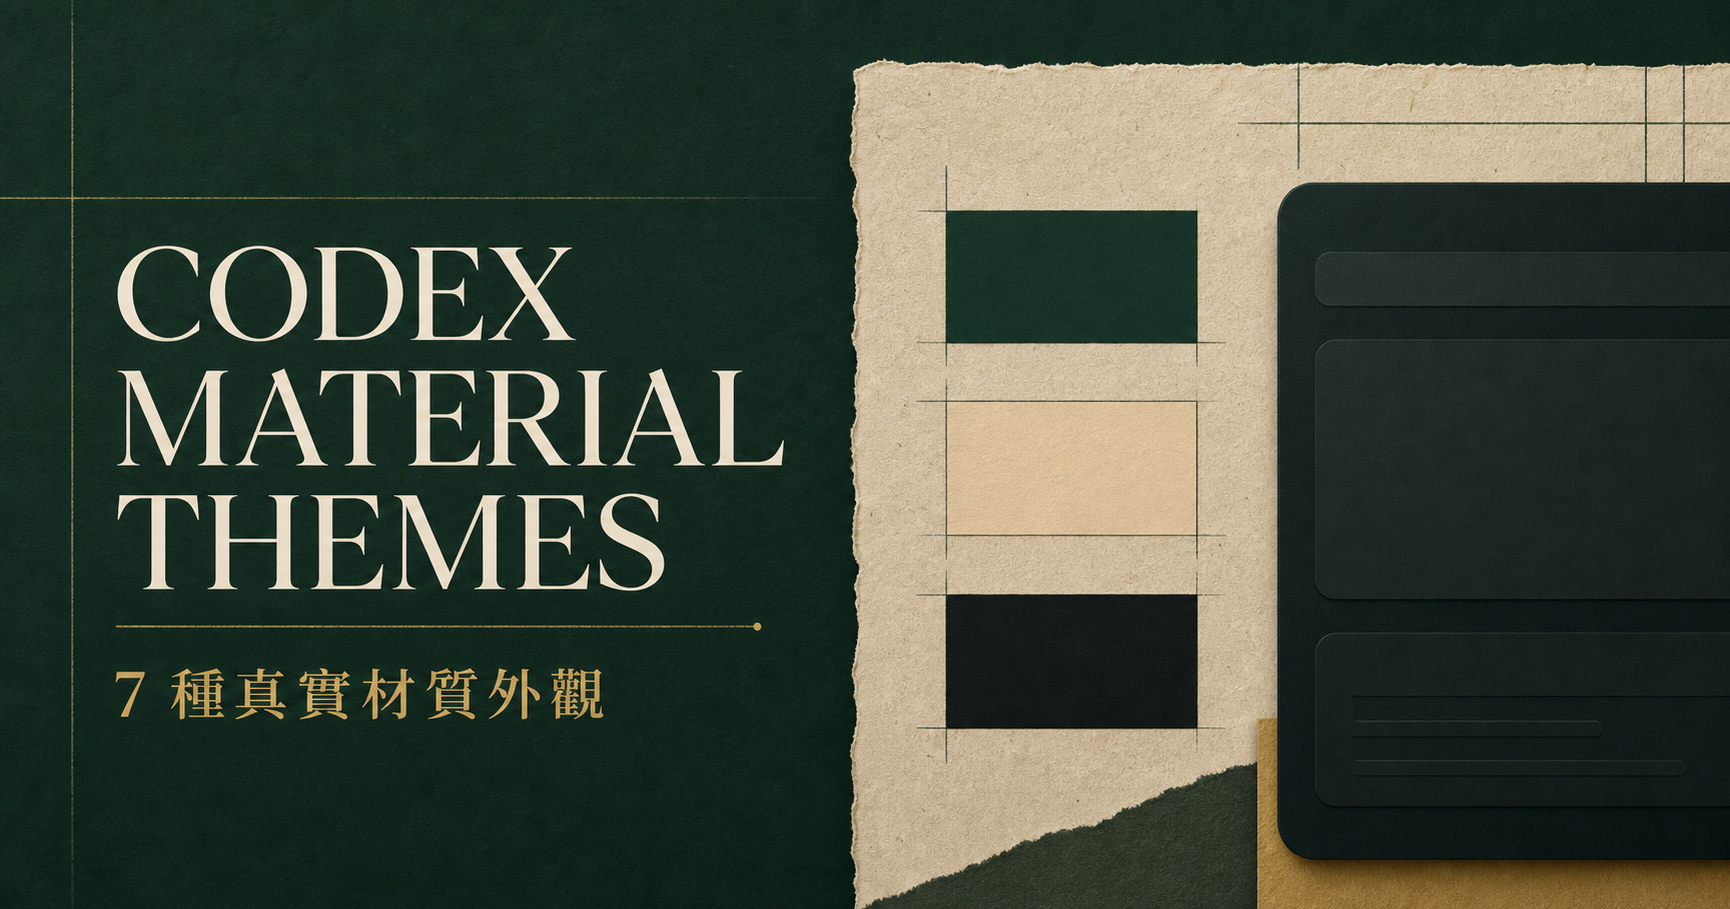
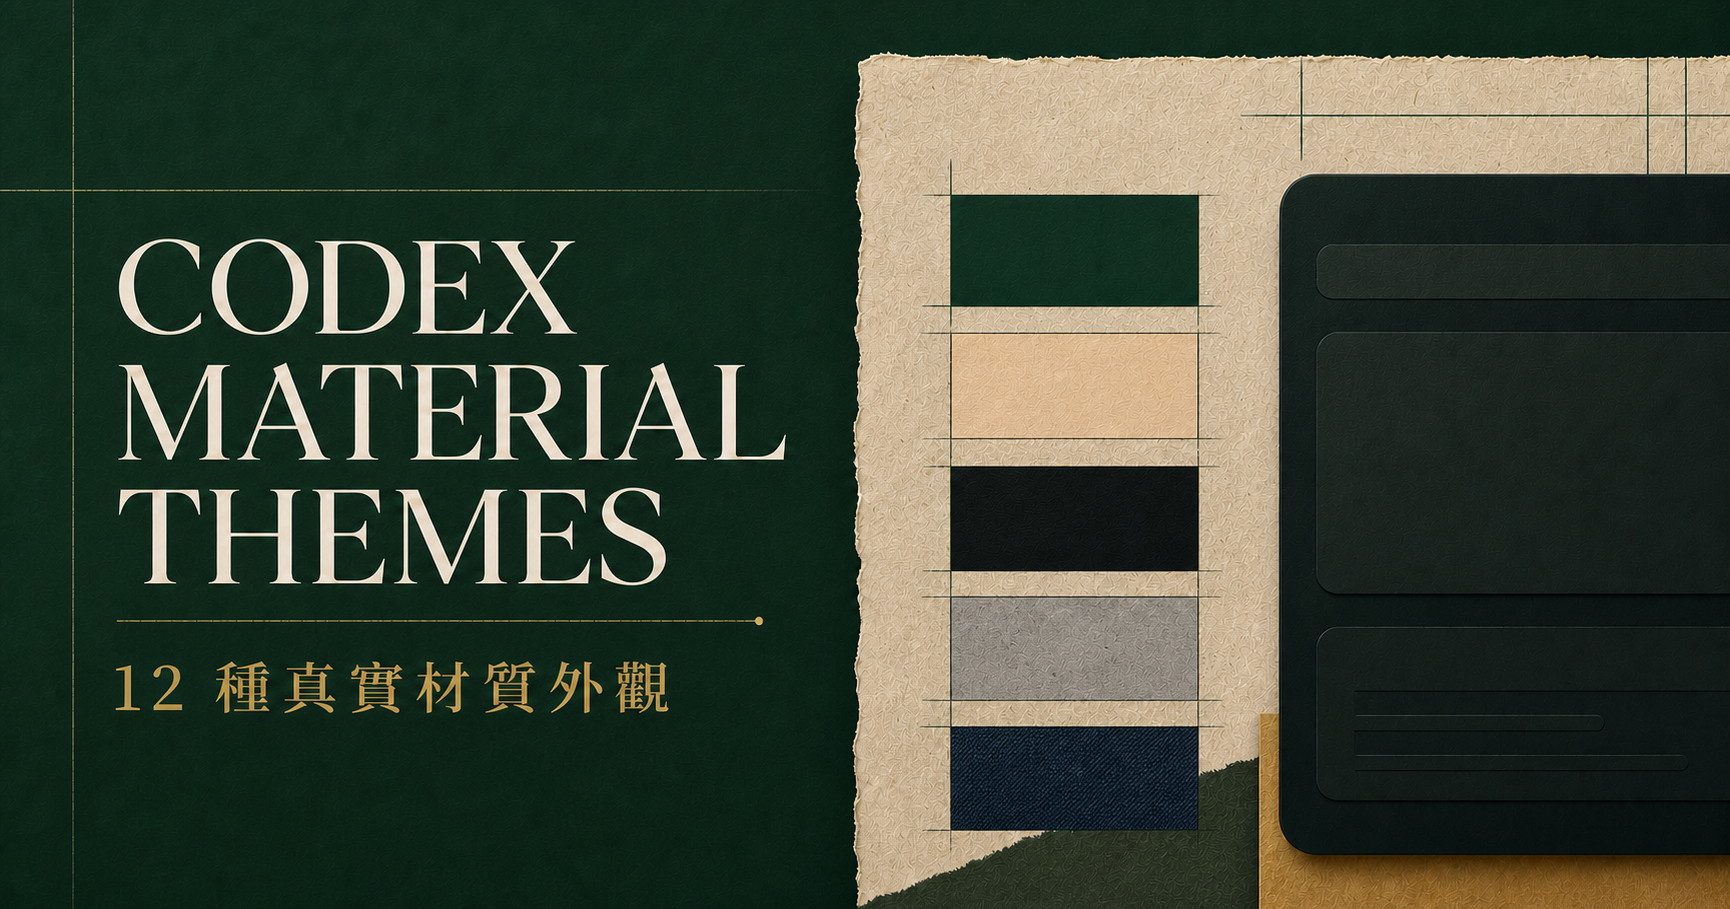
Add concrete and indigo material themes

diff --git a/index.html b/index.html
@@ -3,10 +3,19 @@
   <head>
     <meta charset="UTF-8" />
     <meta name="viewport" content="width=device-width, initial-scale=1.0" />
-    <meta name="description" content="十款以真實材質為靈感的 Codex 主題。預覽、複製並匯入設定。" />
+    <meta name="description" content="十二款以真實材質為靈感的 Codex 主題。預覽、複製並匯入設定。" />
     <meta property="og:title" content="Codex Material Themes" />
-    <meta property="og:description" content="十款以真實材質為靈感的 Codex 主題。" />
-    <meta property="og:image" content="/og-10-themes.png" />
+    <meta property="og:description" content="十二款沉穩實用、適合長時間工作的 Codex 材質主題。" />
+    <meta property="og:type" content="website" />
+    <meta property="og:url" content="https://codex-material-themes.bud4net.chatgpt.site/" />
+    <meta property="og:image" content="https://codex-material-themes.bud4net.chatgpt.site/og.png?v=12" />
+    <meta property="og:image:width" content="1730" />
+    <meta property="og:image:height" content="909" />
+    <meta property="og:image:alt" content="Codex Material Themes：12 種真實材質外觀" />
+    <meta name="twitter:card" content="summary_large_image" />
+    <meta name="twitter:title" content="Codex Material Themes" />
+    <meta name="twitter:description" content="十二款沉穩實用、適合長時間工作的 Codex 材質主題。" />
+    <meta name="twitter:image" content="https://codex-material-themes.bud4net.chatgpt.site/og.png?v=12" />
     <script>
       const assetBase = location.protocol === "file:" ? "./public/" : "./";
       document.write(`<link rel="icon" href="${assetBase}favicon.svg"><link rel="stylesheet" href="${assetBase}site.css">`);

diff --git a/public/site.js b/public/site.js
@@ -11,6 +11,8 @@ const semanticPalettes = {
   harbor: { diffAdded: "#397253", diffRemoved: "#A34C4C", skill: "#76558E" },
   aubergine: { diffAdded: "#8CB790", diffRemoved: "#DC8A88", skill: "#C8A4DF" },
   amber: { diffAdded: "#A6C77B", diffRemoved: "#E08A72", skill: "#C7A5D9" },
+  concrete: { diffAdded: "#2E5039", diffRemoved: "#75312F", skill: "#4E3D63" },
+  indigo: { diffAdded: "#86A98B", diffRemoved: "#D18478", skill: "#A696BB" },
 };
 
 const themes = [
@@ -24,6 +26,8 @@ const themes = [
   ["Harbor Fog", "港灣霧", "Cool blue-grey daylight with crisp dark ink for calm, structured reading.", "冷調藍灰日光搭配清晰深色文字，適合平靜而有條理的閱讀。", "#D6E0E2", "#23343A", "#3F7183", 71, "harbor"],
   ["Aubergine Studio", "茄紫工作室", "Deep aubergine and dusty rose create a focused but expressive night workspace.", "深茄紫與霧玫瑰構成專注又帶創作感的夜間工作空間。", "#281C2F", "#E8DEE9", "#C989A5", 67, "aubergine"],
   ["Amber Terminal", "琥珀終端", "Warm amber on near-black evokes a precise terminal built for maximum legibility.", "近黑底上的暖琥珀色，像為最高辨識度打造的精密終端機。", "#17140F", "#F1DFC1", "#E6A84F", 78, "amber"],
+  ["Concrete Studio", "清水模工作室", "Balanced concrete grey with dark graphite and a practical rust-brown accent.", "均衡的清水模灰搭配深石墨與實用的鐵鏽棕重點色。", "#B9BAB6", "#292D2E", "#60402F", 70, "concrete"],
+  ["Indigo Workwear", "靛藍工裝", "Deep workwear indigo with soft neutral ink and muted brass accents.", "深沉工裝靛藍搭配柔和中性文字與低彩度黃銅重點色。", "#1D2933", "#DDE1DE", "#AF9362", 72, "indigo"],
 ].map(([en, zh, noteEn, noteZh, surface, ink, accent, contrast, semanticPalette], index) => ({
   id: index + 1, en, zh, noteEn, noteZh, surface, ink, accent, contrast,
   semanticColors: semanticPalettes[semanticPalette],
@@ -31,8 +35,8 @@ const themes = [
 }));
 
 const copy = {
-  zh: { guide: "匯入方式", themes: "10 款主題", eyebrow: "數位閱讀，向真實材質校準", title: "讓 Codex 像一張\n值得久坐的桌子。", lead: "十款介面預設，靈感來自黑板、羊皮紙、製圖桌、港灣霧與終端機。預覽效果、複製一行設定，立即套用。", choose: "選擇主題", how: "查看匯入方式", meta: ["真實預覽", "一行套用", "隨時切換"], guideTitle: "五個步驟，不必編輯設定檔。", guideLead: "在 Codex 內依此路徑操作；貼上時請保留完整設定行。", steps: ["設定", "外觀", "匯入", "貼上", "匯入主題"], path: "設定 → 外觀 → 匯入 → 貼上完整設定行 → 選擇「匯入主題」。", collection: "選一個今天的閱讀環境。", collectionLead: "切換主題以查看實際介面與色盤，再複製預設並在 Codex 匯入。", selected: "已選擇", surface: "背景", ink: "文字", accent: "強調色", fonts: "字體設定", fontHint: "從下拉選項選擇，或直接輸入其他字體名稱。", uiFont: "UI 字體", codeFont: "程式碼字體", showFontOptions: "顯示字體選項", copy: "複製主題設定", copied: "已複製設定", footer: "十種數位材質，為長時間閱讀與專注工作調校。", top: "回到頂端" },
-  en: { guide: "How to import", themes: "10 themes", eyebrow: "Digital reading, calibrated to real materials", title: "Make Codex feel like\na desk worth staying at.", lead: "Ten appearance presets inspired by chalkboards, parchment, drafting tables, harbor fog, and terminal displays. Preview the result, copy one line, and apply it instantly.", choose: "Choose a theme", how: "See how to import", meta: ["real previews", "line to apply", "anytime switching"], guideTitle: "Five steps. No config file editing.", guideLead: "Follow this path inside Codex. When copying a theme, paste the complete line.", steps: ["Settings", "Appearance", "Import", "Paste", "Import theme"], path: "Settings → Appearance → Import → paste the full line → select “Import theme”.", collection: "Choose today’s reading environment.", collectionLead: "Switch themes to inspect the real interface and palette, then copy the preset and import it in Codex.", selected: "Selected", surface: "Surface", ink: "Ink", accent: "Accent", fonts: "Font settings", fontHint: "Choose from the dropdown or enter another font name.", uiFont: "UI font", codeFont: "Code font", showFontOptions: "Show font options", copy: "Copy theme settings", copied: "Settings copied", footer: "Ten digital materials tuned for long reading and focused work.", top: "Back to top" },
+  zh: { guide: "匯入方式", themes: "12 款主題", eyebrow: "數位閱讀，向真實材質校準", title: "讓 Codex 像一張\n值得久坐的桌子。", lead: "十二款介面預設，靈感來自黑板、羊皮紙、製圖桌、清水模、靛藍工裝與終端機。預覽效果、複製一行設定，立即套用。", choose: "選擇主題", how: "查看匯入方式", meta: ["真實預覽", "一行套用", "隨時切換"], guideTitle: "五個步驟，不必編輯設定檔。", guideLead: "在 Codex 內依此路徑操作；貼上時請保留完整設定行。", steps: ["設定", "外觀", "匯入", "貼上", "匯入主題"], path: "設定 → 外觀 → 匯入 → 貼上完整設定行 → 選擇「匯入主題」。", collection: "選一個今天的閱讀環境。", collectionLead: "切換主題以查看實際介面與色盤，再複製預設並在 Codex 匯入。", selected: "已選擇", surface: "背景", ink: "文字", accent: "強調色", fonts: "字體設定", fontHint: "從下拉選項選擇，或直接輸入其他字體名稱。", uiFont: "UI 字體", codeFont: "程式碼字體", showFontOptions: "顯示字體選項", copy: "複製主題設定", copied: "已複製設定", footer: "十二種數位材質，為長時間閱讀與專注工作調校。", top: "回到頂端" },
+  en: { guide: "How to import", themes: "12 themes", eyebrow: "Digital reading, calibrated to real materials", title: "Make Codex feel like\na desk worth staying at.", lead: "Twelve appearance presets inspired by chalkboards, parchment, drafting tables, concrete studios, indigo workwear, and terminal displays. Preview the result, copy one line, and apply it instantly.", choose: "Choose a theme", how: "See how to import", meta: ["real previews", "line to apply", "anytime switching"], guideTitle: "Five steps. No config file editing.", guideLead: "Follow this path inside Codex. When copying a theme, paste the complete line.", steps: ["Settings", "Appearance", "Import", "Paste", "Import theme"], path: "Settings → Appearance → Import → paste the full line → select “Import theme”.", collection: "Choose today’s reading environment.", collectionLead: "Switch themes to inspect the real interface and palette, then copy the preset and import it in Codex.", selected: "Selected", surface: "Surface", ink: "Ink", accent: "Accent", fonts: "Font settings", fontHint: "Choose from the dropdown or enter another font name.", uiFont: "UI font", codeFont: "Code font", showFontOptions: "Show font options", copy: "Copy theme settings", copied: "Settings copied", footer: "Twelve digital materials tuned for long reading and focused work.", top: "Back to top" },
 };
 
 let locale = localStorage.getItem("codex-material-locale") || (navigator.language.toLowerCase().startsWith("zh") ? "zh" : "en");